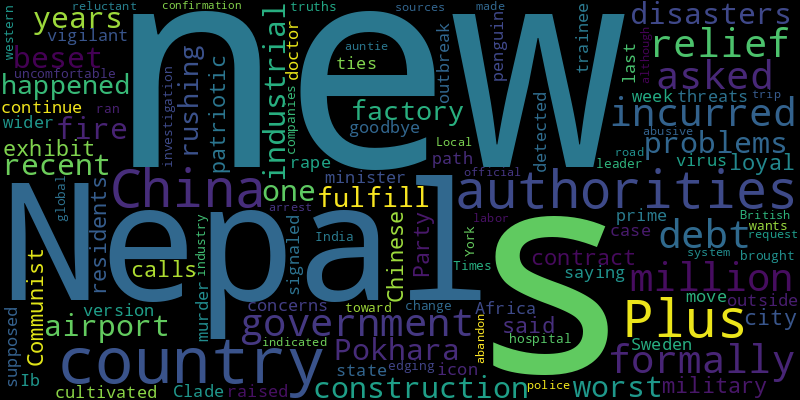
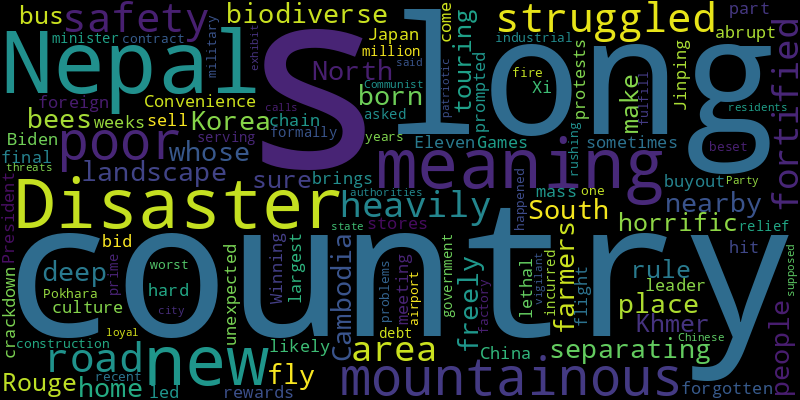
chore(bot): 😂 auto commit

diff --git a/README.md b/README.md
@@ -2,41 +2,41 @@
 Auto RSS New York Times and Generate Word Cloud
 
 ## New York Times Global News
-* The White House, which has told Congress it is allowing a large package of future arms sales to Israel, has tried to contain opposition to the deal while working to avert a regional war.
+* Ukraine is a beta test for embedding artificial intelligence and other new technologies in drones and robots to find deadly land mines, saving lives and allowing military forces to advance more quickly.
+* Local residents say the animals are roaming the roads and hills around the lake, tearing up lawns and terrorizing sheep.
+* In Ein al-Hilweh, Lebanon, long mired in poverty and despair, Hamas recruitment is up and the downtrodden air has given way to defiance and celebration.
+* Mexico’s next leader, Claudia Sheinbaum, is a climate scientist who has signaled a clean energy pivot. But a huge wager on fossil fuels by her political mentor stands in her way.
+* Fighting has raged in Gaza even as the United States, Qatar and Egypt have pushed for a deal, with Israeli strikes overnight killing dozens, according to emergency responders in Gaza.
+* Nepal, a poor and mountainous country, has long struggled with road safety.
+* Most people in Cambodia are under 30, born long after the horrific rule of the Khmer Rouge. A bus is touring the country to make sure it’s not forgotten.
+* The attack took place in Solingen during a celebration of the 650th anniversary of the city’s founding. Eight people were wounded.
 * After Israel recovered the bodies of six men who died in Hamas captivity in Gaza, survivors accused the government of sinking the chances of hostages returning alive through a cease-fire deal.
-* Ukrainian officials were portraying the visit by Prime Minister Narendra Modi of India as a welcome show of support for their country during the war with Russia.
-* A new exhibit calls for the city’s residents to be patriotic, loyal to the Chinese Communist Party and ever vigilant to supposed threats to the state.
-* Pepe Mujica, Uruguay’s spartan former president and plain-spoken philosopher, offers wisdom from a rich life as he battles cancer.
-* José Mujica and Lucía Topolansky have long been married to one another — and their leftist political cause.
-* The rape and murder of a trainee doctor at her own hospital has brought up, once again, uncomfortable truths about a country that wants to be a global leader.
-* The shutdown had threatened to disrupt trade with the United States and other countries, as well as cause serious economic consequences in Canada.
-* With a budget shortfall for 2025 and evidence mounting that Ukraine blew up natural-gas pipelines between Germany and Russia, German aid to Ukraine is under pressure.
-* After an investigation that ran in The New York Times, the industry is edging toward change. But companies in western India are reluctant to abandon an abusive labor system.
+* The revolt is the latest in a series of terrorist attacks in Russia claimed by Islamic militants.
 
 ![Global](./global.png)
 ## New York Times United States News
-* They are not (yet) leaping onto the Democratic Party bandwagon. But one undecided voter said, “Maybe it’s not as hard to vote for her.”
 * The city holds the record for hosting the most conventions and has been shaped by their outcomes.
+* Ten states have ballot measures to establish a right to abortion in their state constitutions. The pushback has already begun.
+* One student’s turbulent coming-out journey in the 1990s put Mr. Walz, then a football coach, at the center of gay rights in a Minnesota high school.
 * As heat waves become more frequent and intense, researchers and activists say the lack of precise data is leading to needless fatalities.
-* Court documents show that the former officer is set to change his not-guilty plea to federal charges, less than three weeks before he was set to face trial.
-* Presenting herself as a pragmatic leader who could unite all Americans behind a “new way forward,” Vice President Kamala Harris accepted the Democratic Party’s nomination for president. Zolan Kanno-Youngs, a White House correspondent for The New York Times, gives his takeaways.
-* Pro-Palestinian organizers predicted overwhelming turnout that would take their case directly to the Democrats. Protesters gathered, but they did not steal the show.
-* The vice president’s speech sought to reassure Americans of her values even as many may be unfamiliar with her background.
-* Democrats gave social media figures the V.I.P. treatment this week in an aggressive attempt to pump feeds with pro-Harris posts.
-* At the Democratic National Convention, party leaders warned against happy talk and said former President Donald J. Trump remains a formidable opponent.
-* With her party torn between pro-Israel Democrats and younger progressives, she’s looking for a way to quiet one major issue until after the election.
+* The first-female-president energy of 2016 has been replaced by a more serious tone, with Democrats warning gravely of the new frontiers in the post-Roe era.
+* Despite calls by his advisers to focus on the issues, former President Donald J. Trump has made it clear that he intends to keep running his campaign his way.
+* Representative Juan Ciscomani is seeking a second term by promoting his immigrant biography, but his record in Congress could alienate voters in his Arizona district bordering Mexico.
+* University officials are spelling out strict codes around protests. They say they are trying to be clear. Others say they are trying to suppress speech.
+* The Democratic nominee says she wants to make raising a family more affordable. But she has provided few details on her proposals.
+* Former President Donald J. Trump talked policy in Las Vegas and seemed almost chipper. In Arizona, he reveled in the endorsement of a former campaign rival, Robert F. Kennedy Jr.
 
 ![US](./usnews.png)
 ## New York Times Asia News
+* Nepal, a poor and mountainous country, has long struggled with road safety.
+* The heavily fortified area separating North and South Korea is home to a biodiverse landscape and is a place of deep meaning for nearby farmers whose bees can fly freely through it.
+* Most people in Cambodia are under 30, born long after the horrific rule of the Khmer Rouge. A bus is touring the country to make sure it’s not forgotten.
+* Convenience stores are a part of the country’s culture, meaning that the foreign buyout bid for 7-Eleven, the largest chain, could be a hard sell in Japan.
+* Winning at the Games sometimes brings unexpected rewards.
+* A final meeting between President Biden and China’s leader, Xi Jinping, is also likely to come up.
+* Disaster has hit just weeks after mass protests led to a lethal crackdown and then prompted the abrupt flight of the long-serving prime minister.
 * A new government in Nepal formally asked for relief from a $216 million debt it incurred for construction of an airport in Pokhara that has been beset by problems.
 * The fire, one of the country’s worst industrial disasters in recent years, happened as the factory was rushing to fulfill a military contract, the authorities said.
 * A new exhibit calls for the city’s residents to be patriotic, loyal to the Chinese Communist Party and ever vigilant to supposed threats to the state.
-* The move signaled that Nepal’s new prime minister, who has cultivated ties with China, would continue on that path.
-* Plus, saying goodbye to a penguin and an icon.
-* The Clade Ib version of the virus had not been detected outside Africa until last week, when a case in Sweden raised concerns about a wider outbreak.
-* The rape and murder of a trainee doctor at her own hospital has brought up, once again, uncomfortable truths about a country that wants to be a global leader.
-* After an investigation that ran in The New York Times, the industry is edging toward change. But companies in western India are reluctant to abandon an abusive labor system.
-* Plus, China’s “road-trip auntie.”
-* Local police sources indicated that the arrest was made at the request of the British authorities, although there was no official confirmation.
 
 ![Asian](./asian.png)
